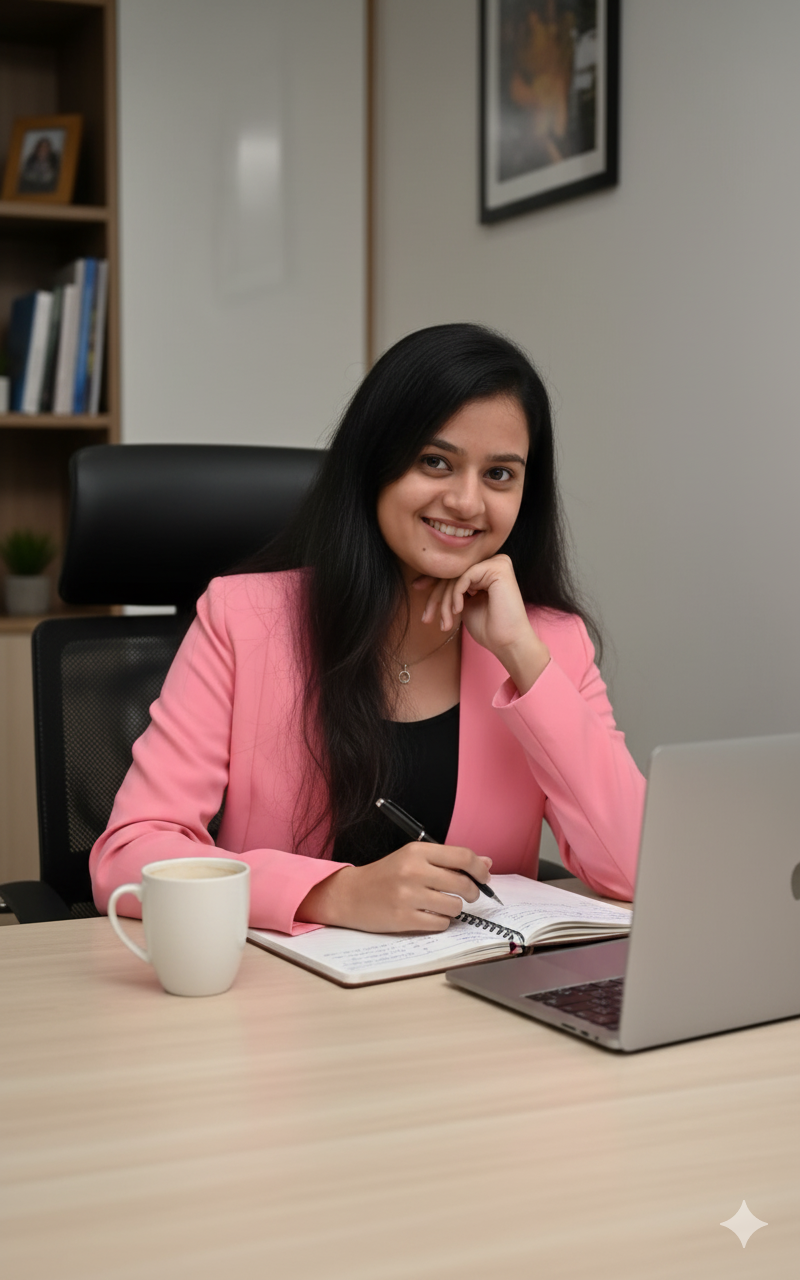
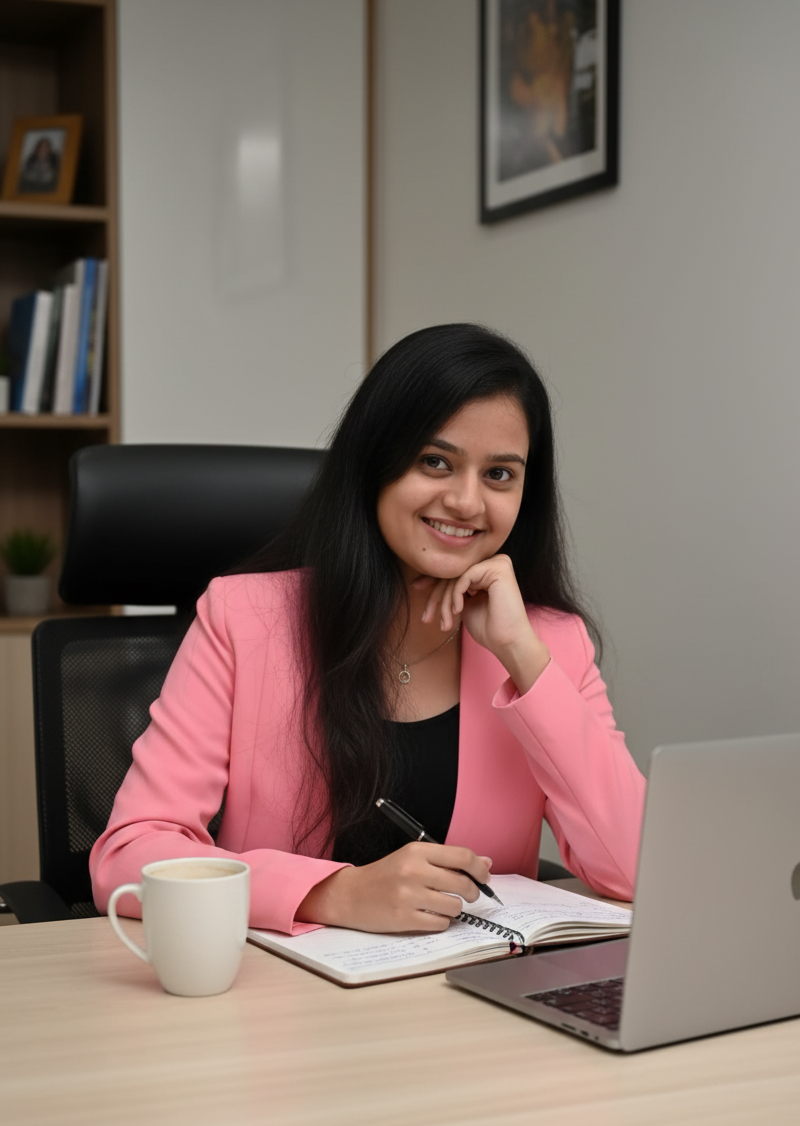
added new  skills component

diff --git a/components/AboutSection.tsx b/components/AboutSection.tsx
@@ -1,51 +1,35 @@
 "use client";
-import React from "react"
-import Image from "next/image"
-
-const skills = [
-  { skill: "Next.js" },
-  { skill: "React" },
-  { skill: "MySQL" },
-  { skill: "Python" },
-  { skill: "GCP" },
-  { skill: "Power BI" },
-  { skill: "JavaScript" },
-  { skill: "WordPress" },
-  { skill: "GitHub" },
-  { skill: "Node.js" },
-  { skill: "PHP" },
-  { skill: "Azure" },
-  { skill: "Terraform" },
-]
+import React from "react";
+import Image from "next/image";
 
 const AboutSection = () => {
   return (
     <section id="about">
-      <div className="my-12 pb-12 md:pt-16 md:pb-48">
+      <div className="my-12 pb-8 md:pt-16 md:pb-16">
         <h1 className="text-center font-bold text-4xl">
           About Me
-          <hr className="w-6 h-1 mx-auto my-4 bg-teal-500 border-0 rounded"></hr>
+          <hr className="w-6 h-1 mx-auto my-4 bg-teal-500 border-0 rounded" />
         </h1>
 
         <div className="flex flex-col space-y-10 items-stretch justify-center align-top md:space-x-10 md:space-y-0 md:p-4 md:flex-row md:text-left">
-          <div className="md:w-1/2 ">
+          <div className="md:w-1/2">
             <h1 className="text-center text-2xl font-bold mb-6 md:text-left">
               Get to know me!
             </h1>
             <p>
               Hi, my name is Bhakti and I am a{" "}
-              <span className="font-bold">{"highly ambitious"}</span>,
-              <span className="font-bold">{" self-motivated"}</span>, and
-              <span className="font-bold">{" driven"}</span> software engineer
+              <span className="font-bold">highly ambitious</span>,
+              <span className="font-bold"> self-motivated</span>, and
+              <span className="font-bold"> driven</span> software engineer
               based in Pune.
             </p>
             <br />
             <p>
-            I graduated with a B.Tech in Computer Science from RCPIT, Shirpur, in 2023 and have been working in the field ever since.
+              I graduated with a B.Tech in Computer Science from RCPIT, Shirpur, in 2023 and have been working in the field ever since.
             </p>
             <br />
             <p>
-            I have a wide range of hobbies and passions that keep me engaged, from exploring new technologies and automating workflows to reading, traveling, and continuous learning.
+              I have a wide range of hobbies and passions that keep me engaged, from exploring new technologies and automating workflows to reading, traveling, and continuous learning.
             </p>
             <br />
             <p>
@@ -53,38 +37,26 @@ const AboutSection = () => {
               <span className="font-bold text-teal-500">
                 never stop growing
               </span>{" "}
-              and that&#39;s what I strive to do, I have a passion for
+              and that&#39;s what I strive to do. I have a passion for
               technology and a desire to always push the limits of what is
               possible. I am excited to see where my career takes me and am
               always open to new opportunities. 🙂
             </p>
           </div>
+
           <div className="text-center md:w-1/2 md:text-left">
-            <h1 className="text-2xl font-bold mb-6">My Skills</h1>
-            <div className="flex flex-wrap flex-row justify-center z-10 md:justify-start">
-              {skills.map((item, idx) => {
-                return (
-                  <p
-                    key={idx}
-                    className="bg-gray-200 px-4 py-2 mr-2 mt-2 text-gray-500 rounded font-semibold"
-                  >
-                    {item.skill}
-                  </p>
-                )
-              })}
-            </div>
             <Image
-                src="/hero-image.png"
-                alt=""
-                width={300}
-                height={325}
-                className="block mx-auto mt-6 md:mt-0 md:block md:relative md:bottom-4 md:left-27 md:z-0 md:top-6"
+              src="/Gemini_Generated_Image_byoxjbbyoxjbbyox.png"
+              alt=""
+              width={300}
+              height={325}
+              className="block mx-auto mt-6 md:mt-0 md:block md:relative md:bottom-4 md:left-27 md:z-0 md:top-6"
             />
           </div>
         </div>
       </div>
     </section>
-  )
-}
+  );
+};
 
-export default AboutSection
+export default AboutSection;

diff --git a/components/SkillsSection.tsx b/components/SkillsSection.tsx
@@ -1,0 +1,56 @@
+"use client";
+
+import { motion } from "framer-motion";
+import React from "react";
+import { SiReact, SiNextdotjs, SiNodedotjs, SiMysql, SiPython, SiPowerbi, SiGooglecloud, SiWordpress } from "react-icons/si";
+
+const skills = [
+  { name: "React.js", icon: <SiReact size={40} color="#61DBFB" />, level: 90 },
+  { name: "Next.js", icon: <SiNextdotjs size={40} />, level: 85 },
+  { name: "Node.js", icon: <SiNodedotjs size={40} color="#68A063" />, level: 80 },
+  { name: "MySQL", icon: <SiMysql size={40} color="#4479A1" />, level: 80 },
+  { name: "Python", icon: <SiPython size={40} color="#306998" />, level: 85 },
+  { name: "Power BI", icon: <SiPowerbi size={40} color="#F2C811" />, level: 75 },
+  { name: "GCP", icon: <SiGooglecloud size={40} color="#4285F4" />, level: 80 },
+  { name: "WordPress", icon: <SiWordpress size={40} color="#21759B" />, level: 70 },
+];
+
+const SkillsSection = () => {
+  return (
+    <section id="skills" className="py-12 px-4 md:px-12">
+      <h1 className="my-10 text-center font-bold text-4xl">
+        My Skills
+        <hr className="w-6 h-1 mx-auto my-4 bg-teal-500 border-0 rounded" />
+      </h1>
+
+      <div className="grid md:grid-cols-2 gap-8">
+        {skills.map((skill, index) => (
+          <div key={index} className="flex flex-col items-start space-y-2">
+            {/* Skill Name + Icon */}
+            <div className="flex items-center space-x-4">
+              {skill.icon}
+              <span className="text-xl font-semibold">{skill.name}</span>
+            </div>
+
+            {/* Animated Progress Bar */}
+            <div className="w-full bg-gray-200 dark:bg-gray-700 rounded-full h-4">
+              <motion.div
+                className="bg-teal-500 h-4 rounded-full"
+                initial={{ width: 0 }}
+                animate={{ width: `${skill.level}%` }}
+                transition={{ duration: 1.5, ease: "easeOut" }}
+              ></motion.div>
+            </div>
+          </div>
+        ))}
+      </div>
+
+      {/* Highlight Full-Stack + Cloud + AI/ML */}
+      <p className="mt-6 text-center text-gray-600 dark:text-gray-400">
+        Full-Stack Developer | Cloud Engineer | AI/ML Enthusiast
+      </p>
+    </section>
+  );
+};
+
+export default SkillsSection;

diff --git a/app/page.tsx b/app/page.tsx
@@ -2,13 +2,15 @@ import AboutSection from "@/components/AboutSection"
 import HeroSection from "@/components/HeroSection"
 import ProjectsSection from "@/components/ProjectsSection"  
 import FAQChatbot from "@/components/FAQChatbot"
-import Projects from "@/components/Projects";
+import Projects from "@/components/Projects"
+import SkillsSection from "@/components/SkillsSection";
 
 export default function Home() {
   return (
     <main className="mx-auto max-w-3xl px-4 sm:px-6 md:max-w-5xl ">
       <HeroSection />
       <AboutSection />
+      <SkillsSection />
       <Projects />
       <ProjectsSection />
       <FAQChatbot /> 

diff --git a/components/HeroSection.tsx b/components/HeroSection.tsx
@@ -38,7 +38,7 @@ const HeroSection = () => {
             based in Pune, building scalable solutions that optimize performance and simplify workflows.
           </p>
           <Link
-            to="projects"
+            to="skills"
             className="text-neutral-100 font-semibold px-6 py-3 bg-teal-600 rounded shadow hover:bg-teal-700"
             activeClass="active"
             spy={true}
@@ -46,7 +46,7 @@ const HeroSection = () => {
             offset={-100}
             duration={500}
           >
-            Certifications
+            View My Skills
           </Link>
         </div>
       </div>
